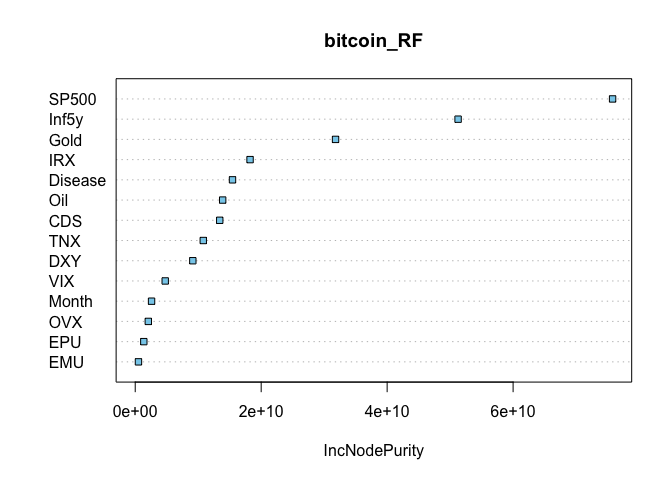
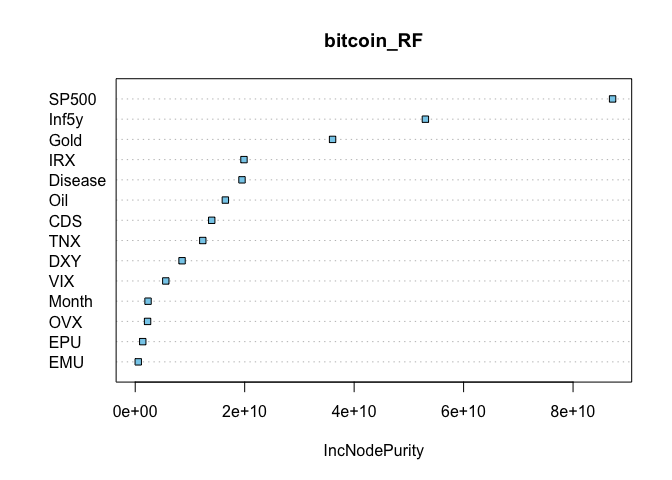
started pre and post analysis of year 2019

diff --git a/R_project.md b/R_project.md
@@ -174,7 +174,7 @@ RMSE
 CART
 </td>
 <td style="text-align:right;">
-2192.368
+2016.0733
 </td>
 </tr>
 <tr>
@@ -182,7 +182,7 @@ CART
 Random Forest
 </td>
 <td style="text-align:right;">
-1013.533
+847.2747
 </td>
 </tr>
 <tr>
@@ -190,7 +190,7 @@ Random Forest
 Gradient Boosting
 </td>
 <td style="text-align:right;">
-1126.844
+1211.8137
 </td>
 </tr>
 </tbody>
@@ -245,7 +245,7 @@ RMSE
 CART
 </td>
 <td style="text-align:right;">
-2192.368
+2016.0733
 </td>
 </tr>
 <tr>
@@ -253,7 +253,7 @@ CART
 Random Forest
 </td>
 <td style="text-align:right;">
-1013.533
+847.2747
 </td>
 </tr>
 <tr>
@@ -261,7 +261,7 @@ Random Forest
 Gradient Boosting
 </td>
 <td style="text-align:right;">
-1126.844
+1211.8137
 </td>
 </tr>
 </tbody>
@@ -489,7 +489,7 @@ cluster1
 SP500
 </td>
 <td style="text-align:right;">
-2454.34404
+4270.32589
 </td>
 </tr>
 <tr>
@@ -497,15 +497,7 @@ SP500
 Gold
 </td>
 <td style="text-align:right;">
-1263.72872
-</td>
-</tr>
-<tr>
-<td style="text-align:left;">
-DXY
-</td>
-<td style="text-align:right;">
-112.45689
+1815.68972
 </td>
 </tr>
 <tr>
@@ -513,7 +505,15 @@ DXY
 EPU
 </td>
 <td style="text-align:right;">
-84.70150
+127.35813
+</td>
+</tr>
+<tr>
+<td style="text-align:left;">
+DXY
+</td>
+<td style="text-align:right;">
+117.55469
 </td>
 </tr>
 <tr>
@@ -521,7 +521,7 @@ EPU
 Oil
 </td>
 <td style="text-align:right;">
-52.93657
+91.19402
 </td>
 </tr>
 </tbody>
@@ -544,7 +544,7 @@ cluster2
 SP500
 </td>
 <td style="text-align:right;">
-4165.98043
+3920.2064
 </td>
 </tr>
 <tr>
@@ -552,7 +552,7 @@ SP500
 Gold
 </td>
 <td style="text-align:right;">
-1790.95124
+1796.5014
 </td>
 </tr>
 <tr>
@@ -560,15 +560,7 @@ Gold
 EPU
 </td>
 <td style="text-align:right;">
-126.51989
-</td>
-</tr>
-<tr>
-<td style="text-align:left;">
-DXY
-</td>
-<td style="text-align:right;">
-120.01837
+138.2618
 </td>
 </tr>
 <tr>
@@ -576,7 +568,15 @@ DXY
 EMU
 </td>
 <td style="text-align:right;">
-97.30648
+128.3905
+</td>
+</tr>
+<tr>
+<td style="text-align:left;">
+DXY
+</td>
+<td style="text-align:right;">
+122.8686
 </td>
 </tr>
 </tbody>
@@ -599,7 +599,7 @@ cluster3
 SP500
 </td>
 <td style="text-align:right;">
-3425.7795
+3366.7918
 </td>
 </tr>
 <tr>
@@ -607,7 +607,7 @@ SP500
 Gold
 </td>
 <td style="text-align:right;">
-1830.5749
+1828.9561
 </td>
 </tr>
 <tr>
@@ -615,7 +615,7 @@ Gold
 EPU
 </td>
 <td style="text-align:right;">
-253.4530
+262.7343
 </td>
 </tr>
 <tr>
@@ -623,7 +623,7 @@ EPU
 EMU
 </td>
 <td style="text-align:right;">
-135.4127
+143.4939
 </td>
 </tr>
 <tr>
@@ -631,7 +631,7 @@ EMU
 DXY
 </td>
 <td style="text-align:right;">
-115.6980
+115.9476
 </td>
 </tr>
 </tbody>
@@ -654,7 +654,7 @@ cluster4
 SP500
 </td>
 <td style="text-align:right;">
-1926.08094
+2673.45920
 </td>
 </tr>
 <tr>
@@ -662,7 +662,7 @@ SP500
 Gold
 </td>
 <td style="text-align:right;">
-1268.64375
+1297.69682
 </td>
 </tr>
 <tr>
@@ -670,15 +670,7 @@ Gold
 DXY
 </td>
 <td style="text-align:right;">
-95.39114
-</td>
-</tr>
-<tr>
-<td style="text-align:left;">
-Oil
-</td>
-<td style="text-align:right;">
-94.16828
+114.01794
 </td>
 </tr>
 <tr>
@@ -686,7 +678,15 @@ Oil
 EPU
 </td>
 <td style="text-align:right;">
-66.23844
+95.31944
+</td>
+</tr>
+<tr>
+<td style="text-align:left;">
+Oil
+</td>
+<td style="text-align:right;">
+56.62474
 </td>
 </tr>
 </tbody>
@@ -764,7 +764,7 @@ cluster6
 SP500
 </td>
 <td style="text-align:right;">
-4016.2158
+2020.54151
 </td>
 </tr>
 <tr>
@@ -772,23 +772,7 @@ SP500
 Gold
 </td>
 <td style="text-align:right;">
-1897.4271
-</td>
-</tr>
-<tr>
-<td style="text-align:left;">
-EMU
-</td>
-<td style="text-align:right;">
-158.2080
-</td>
-</tr>
-<tr>
-<td style="text-align:left;">
-EPU
-</td>
-<td style="text-align:right;">
-153.9675
+1224.98399
 </td>
 </tr>
 <tr>
@@ -796,7 +780,23 @@ EPU
 DXY
 </td>
 <td style="text-align:right;">
-120.2058
+104.96116
+</td>
+</tr>
+<tr>
+<td style="text-align:left;">
+EPU
+</td>
+<td style="text-align:right;">
+65.54422
+</td>
+</tr>
+<tr>
+<td style="text-align:left;">
+Oil
+</td>
+<td style="text-align:right;">
+62.20606
 </td>
 </tr>
 </tbody>
@@ -805,6 +805,10 @@ DXY
 </tr>
 </tbody>
 </table>
+
+## Comparison for Pre-2019 and Post-2019
+
+![](R_project_files/figure-markdown_strict/dividing_2019-1.png)![](R_project_files/figure-markdown_strict/dividing_2019-2.png)![](R_project_files/figure-markdown_strict/dividing_2019-3.png)![](R_project_files/figure-markdown_strict/dividing_2019-4.png)
 
 # Conclusion
 
